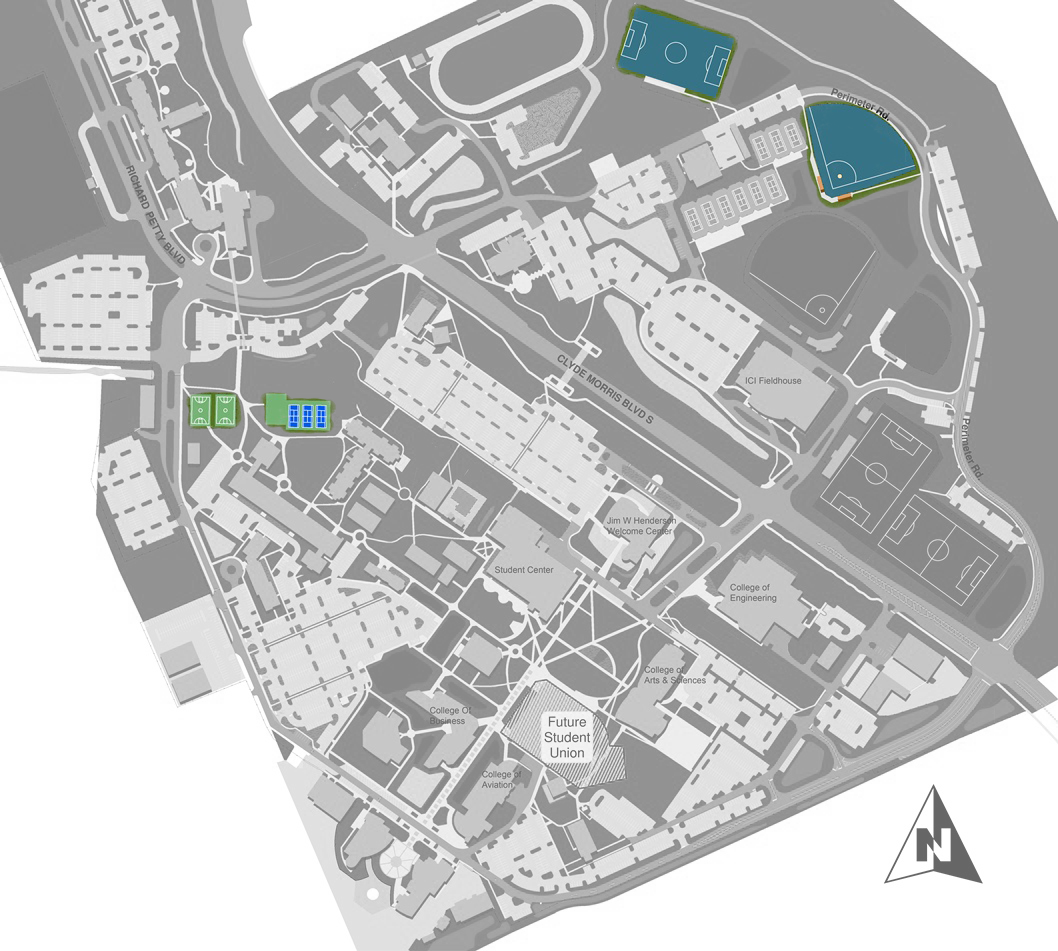
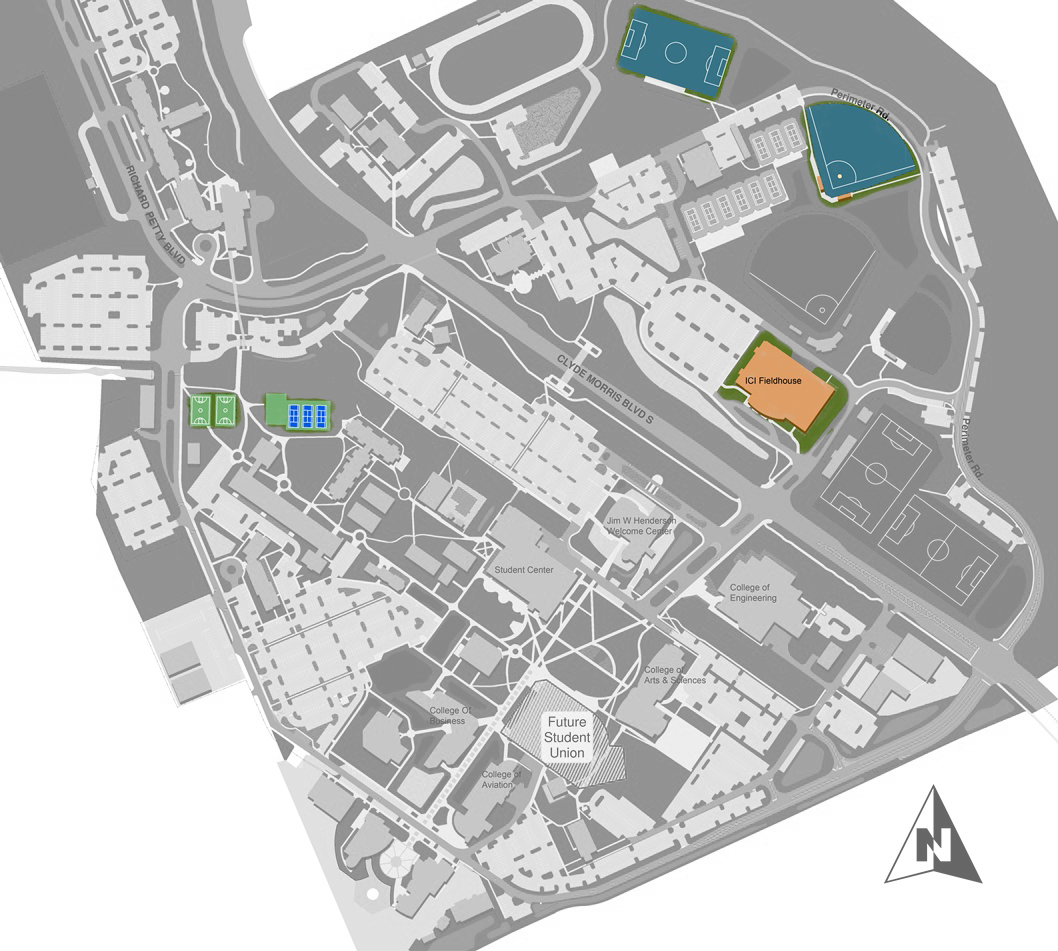
updated admin GUI and intramural map

Changed region(s): [[0.655, 0.3354, 0.811, 0.4879]]

diff --git a/src/app/AdminReservationGUI.java b/src/app/AdminReservationGUI.java
@@ -61,9 +61,42 @@ public class AdminReservationGUI extends JFrame{
 		Reservation.setFont(new Font("Calibri", Font.BOLD, 16));
 		header.add(Reservation);
 		header.setBackground(Color.WHITE);
+		
+		
+		/**
+		 * Reading data from ReservationData.txt file 
+		 * @Sting line = line which stores the data from reading (go to new line when one line is ended)
+		 * @StringBuilder readText = the StringBuilder that combines all lines together
+		 */
+		String line = "";						 
+		StringBuilder readText = new StringBuilder();
+
+		try{
+			Scanner fileScanner = new Scanner (new File("data/ReservationData.txt"));
+
+			while (fileScanner.hasNextLine()){
+				line = fileScanner.nextLine();
+				readText.append(line+"\n");
+			}
+			fileScanner.close();
+		}
+		catch (Exception e)
+		{
+			e.printStackTrace();
+		}
 
 		/**
-		 * Adds exit and Cancel buttons and align them in BoxLayout
+		 * Display the string built using JTextArea
+		 */
+
+		String stringToDisplay = readText.toString();
+		text = new JTextArea (stringToDisplay);
+		body.add(text);
+		body.setBackground(Color.WHITE);
+
+
+		/**
+		 * Adds approve, reject, and exit buttons and align them in BoxLayout
 		 */
 		approve.setAlignmentX(LEFT_ALIGNMENT);
 		reject.setAlignmentX(CENTER_ALIGNMENT);
@@ -74,6 +107,7 @@ public class AdminReservationGUI extends JFrame{
 		button.setBackground(Color.WHITE);
 		
 		pane.add(header, BorderLayout.NORTH);
+		pane.add(body, BorderLayout.CENTER);
 		pane.add(button, BorderLayout.SOUTH);
 		
 		/**
@@ -108,6 +142,5 @@ public class AdminReservationGUI extends JFrame{
 		//frame.pack();					
 		frame.setVisible(true);
 	}
-
 	
 }//end myReservationGUI

diff --git a/src/app/HomePage.java b/src/app/HomePage.java
@@ -33,7 +33,7 @@ import javax.swing.JTextField;
 public class HomePage extends JFrame implements ActionListener, KeyListener
 {
 	// data fields
-	private MenuPanel northPanel = new MenuPanel ("user");
+	private MenuPanel northPanel = new MenuPanel ("admin");
 	private JPanel centerPanel = new JPanel();
 	private TitleDesign titlePanel = new TitleDesign();
 	private JPanel content = new ContentPanel();
